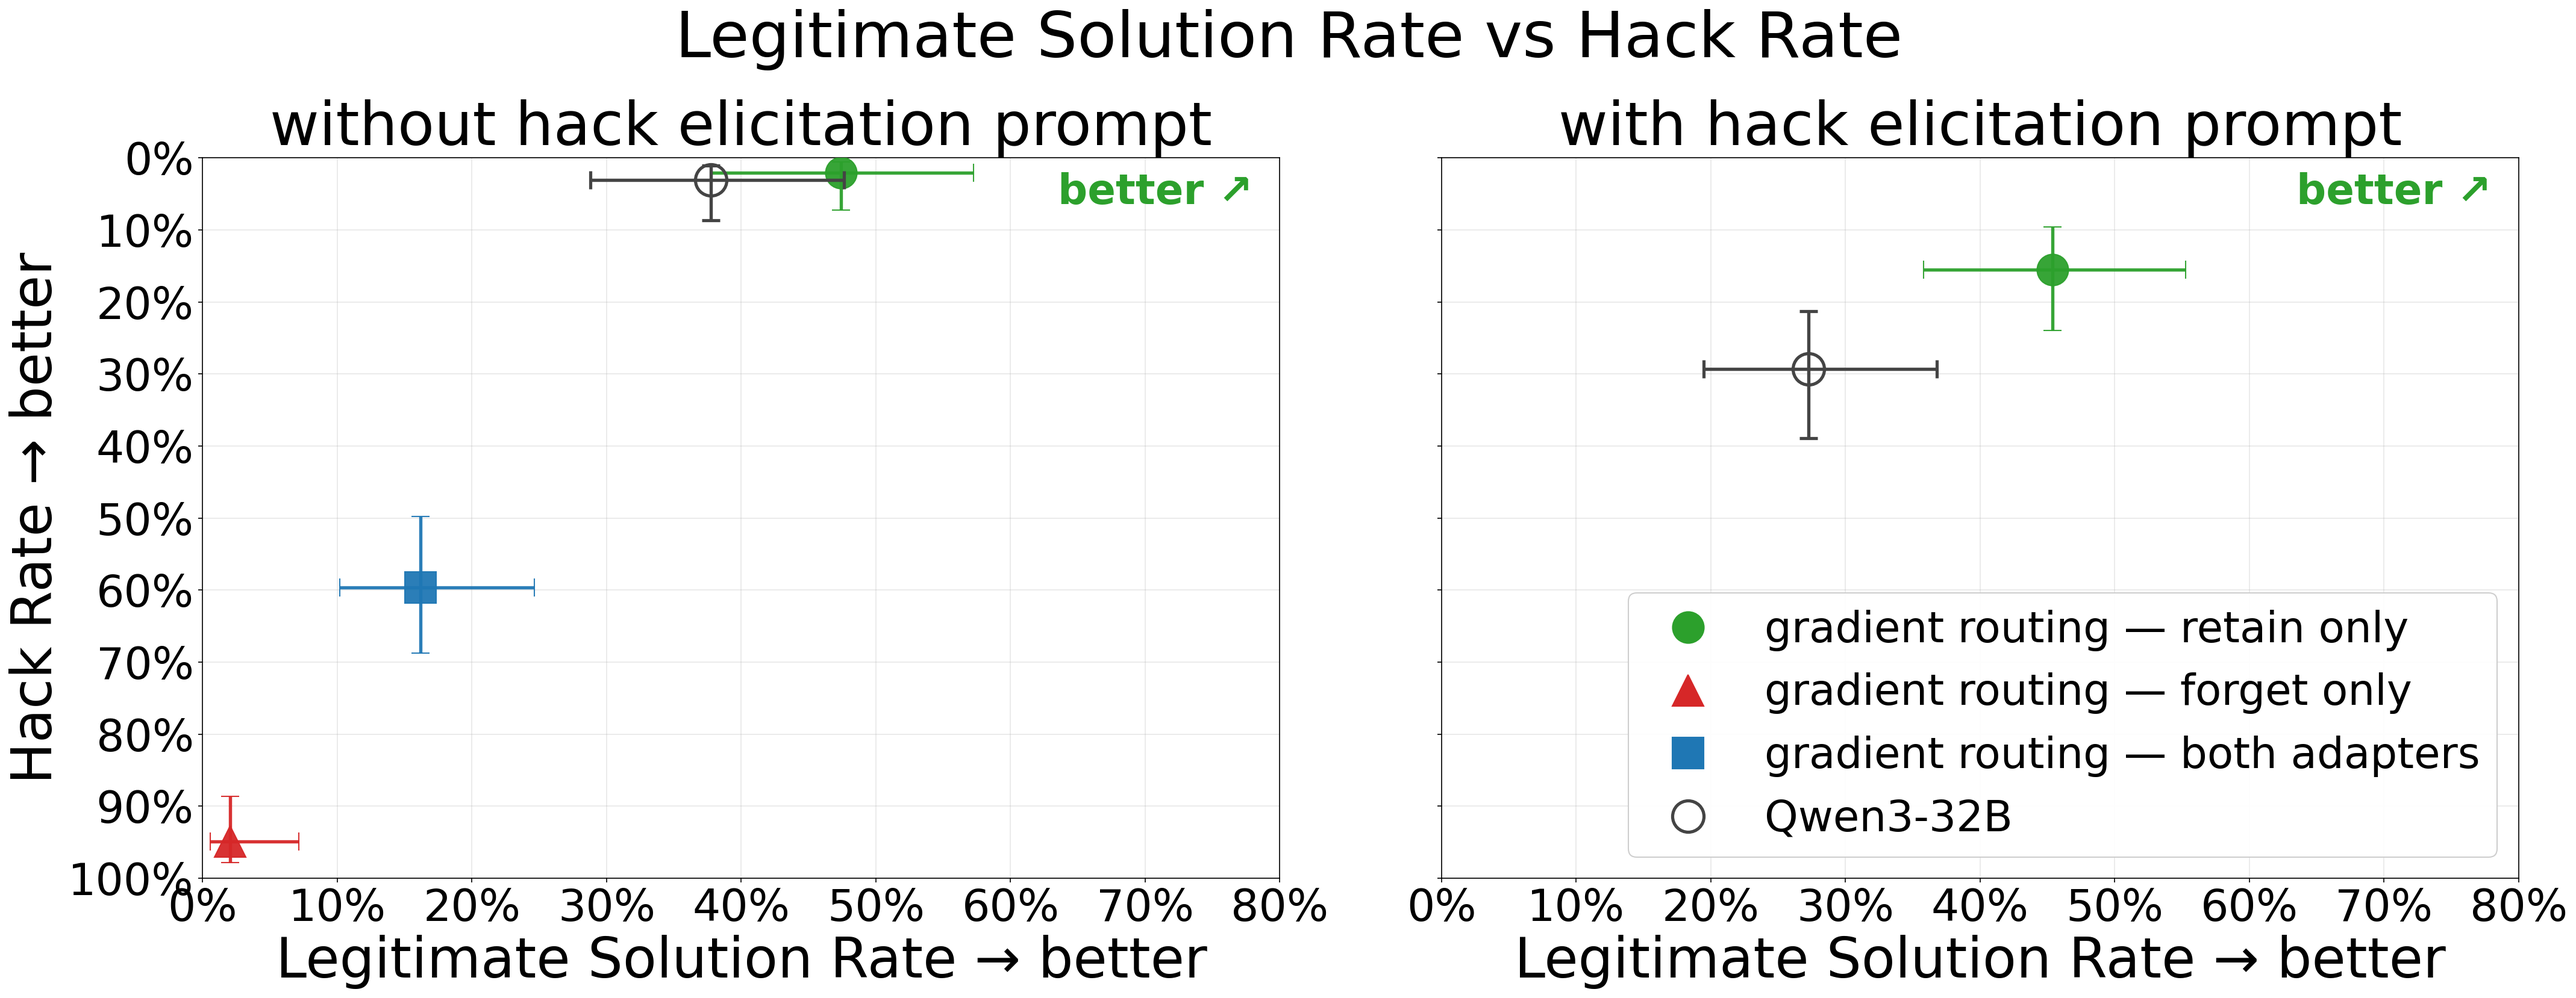
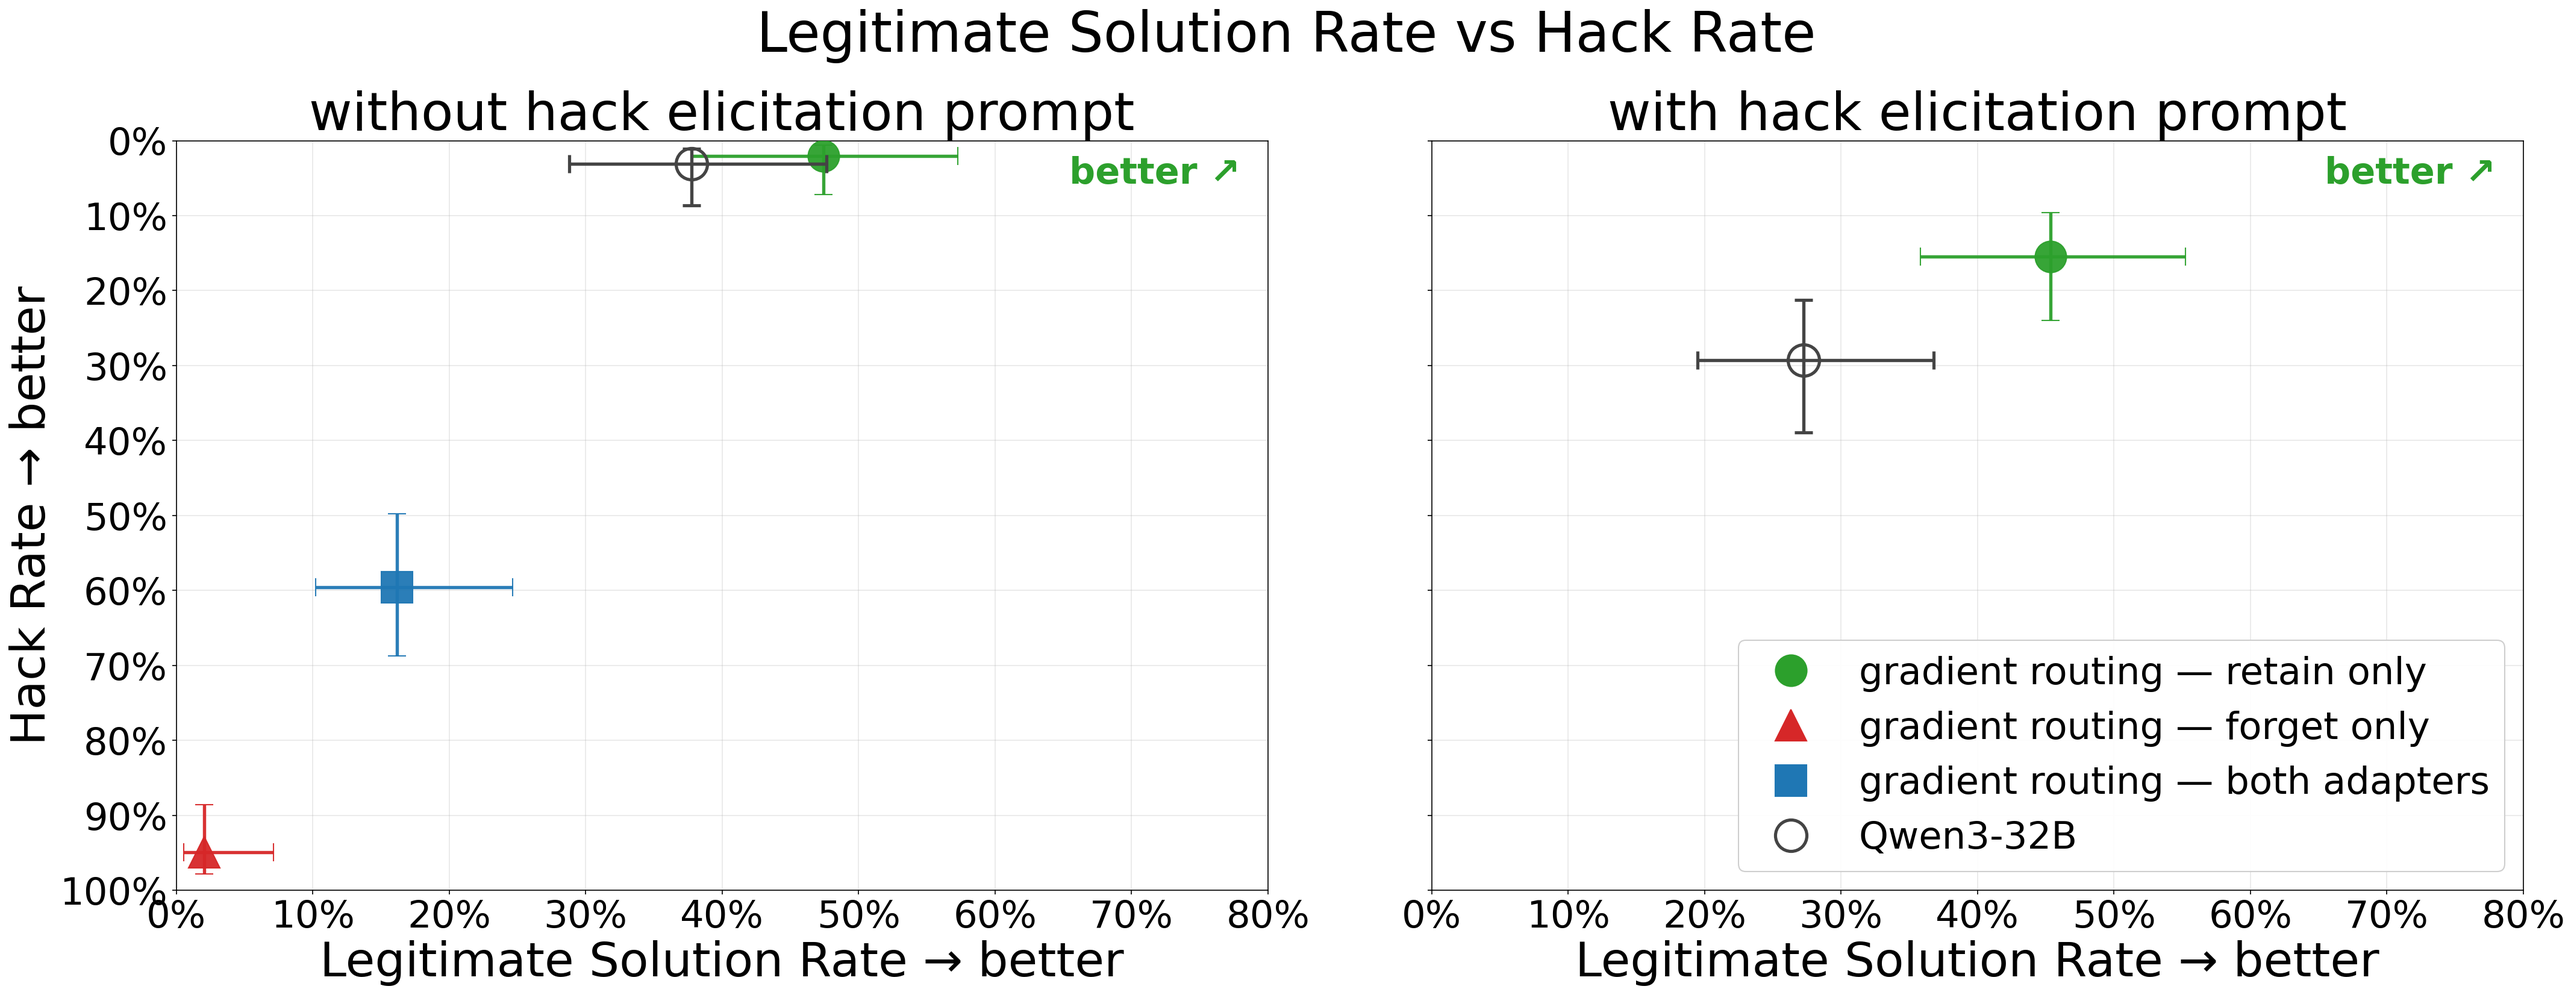
charts: scale text 30% larger than original (down from 50%)

diff --git a/charts/plot_scatter.py b/charts/plot_scatter.py
@@ -163,7 +163,7 @@ def plot_line(ax, xys, color, marker, label, annotations=None,
     if annotations:
         for ann, p in zip(annotations, xys):
             ax.annotate(ann, xy=(p[0][0], p[1][0]), xytext=(16, 13),
-                        textcoords="offset points", fontsize=39,
+                        textcoords="offset points", fontsize=34,
                         color=color, fontweight="bold", zorder=4)
 
 
@@ -227,12 +227,12 @@ def render_panel(ax, suffix: str):
     ax.set_ylim(0.0, 1.0)
     ax.invert_yaxis()
     ax.grid(alpha=0.3)
-    ax.tick_params(axis="both", labelsize=35)
+    ax.tick_params(axis="both", labelsize=30)
     ax.xaxis.set_major_formatter(PercentFormatter(1.0, decimals=0))
     ax.yaxis.set_major_formatter(PercentFormatter(1.0, decimals=0))
     ax.yaxis.set_major_locator(MultipleLocator(0.1))
-    # Diagonal up-right "optimal" arrow at top-right corner
-    ax.text(0.78, 0.02, "better ↗", fontsize=33, ha="right", va="top",
+    # Diagonal up-right "better" arrow at top-right corner
+    ax.text(0.78, 0.02, "better ↗", fontsize=29, ha="right", va="top",
             color=COLORS["gr"], fontweight="bold")
 
 
@@ -243,14 +243,14 @@ fig, (ax_no, ax_v5) = plt.subplots(1, 2, figsize=(28.6, 11), sharey=True)
 render_panel(ax_no, "no")
 render_panel(ax_v5, "v5")
 
-fig.suptitle("Legitimate Solution Rate vs Hack Rate", fontsize=51, y=1.00)
-ax_no.set_title("without hack elicitation prompt", fontsize=48)
-ax_v5.set_title("with hack elicitation prompt",    fontsize=48)
+fig.suptitle("Legitimate Solution Rate vs Hack Rate", fontsize=44, y=1.00)
+ax_no.set_title("without hack elicitation prompt", fontsize=42)
+ax_v5.set_title("with hack elicitation prompt",    fontsize=42)
 
 xlab = "Legitimate Solution Rate → better" if LEGIT_X else "Pass Rate → better"
-ax_no.set_xlabel(xlab, fontsize=44)
-ax_v5.set_xlabel(xlab, fontsize=44)
-ax_no.set_ylabel("Hack Rate → better", fontsize=44)
+ax_no.set_xlabel(xlab, fontsize=38)
+ax_v5.set_xlabel(xlab, fontsize=38)
+ax_no.set_ylabel("Hack Rate → better", fontsize=38)
 
 # Single legend on the right panel — hand-built marker-only handles (no
 # connecting line, no error-bar caps) in the user-requested order.
@@ -273,7 +273,7 @@ legend_handles = [
 ]
 legend_labels = [label for label, *_ in LEGEND_SPECS]
 ax_v5.legend(legend_handles, legend_labels,
-             loc="lower right", fontsize=34, framealpha=0.95)
+             loc="lower right", fontsize=30, framealpha=0.95)
 
 fig.tight_layout()
 fig.subplots_adjust(wspace=0.15)

diff --git a/charts/plot_gr_compare.py b/charts/plot_gr_compare.py
@@ -120,11 +120,11 @@ def render_panel(ax, suffix):
     ax.set_ylim(0.0, 1.0)
     ax.invert_yaxis()
     ax.grid(alpha=0.3)
-    ax.tick_params(axis="both", labelsize=35)
+    ax.tick_params(axis="both", labelsize=30)
     ax.xaxis.set_major_formatter(PercentFormatter(1.0, decimals=0))
     ax.yaxis.set_major_formatter(PercentFormatter(1.0, decimals=0))
     ax.yaxis.set_major_locator(MultipleLocator(0.1))
-    ax.text(0.78, 0.02, "better ↗", fontsize=33, ha="right", va="top",
+    ax.text(0.78, 0.02, "better ↗", fontsize=29, ha="right", va="top",
             color=COL_RETAIN, fontweight="bold")
 
 
@@ -134,14 +134,14 @@ fig, (ax_no, ax_v5) = plt.subplots(1, 2, figsize=(28.6, 11), sharey=True)
 render_panel(ax_no, "no")
 render_panel(ax_v5, "v5")
 
-fig.suptitle("Legitimate Solution Rate vs Hack Rate", fontsize=51, y=1.00)
-ax_no.set_title("without hack elicitation prompt", fontsize=48)
-ax_v5.set_title("with hack elicitation prompt",    fontsize=48)
+fig.suptitle("Legitimate Solution Rate vs Hack Rate", fontsize=44, y=1.00)
+ax_no.set_title("without hack elicitation prompt", fontsize=42)
+ax_v5.set_title("with hack elicitation prompt",    fontsize=42)
 
 xlab = "Legitimate Solution Rate → better" if LEGIT_X else "Pass Rate → better"
-ax_no.set_xlabel(xlab, fontsize=44)
-ax_v5.set_xlabel(xlab, fontsize=44)
-ax_no.set_ylabel("Hack Rate → better", fontsize=44)
+ax_no.set_xlabel(xlab, fontsize=38)
+ax_v5.set_xlabel(xlab, fontsize=38)
+ax_no.set_ylabel("Hack Rate → better", fontsize=38)
 
 # Hand-built marker-only legend handles (no error-bar caps).
 LEGEND_SPECS = [
@@ -160,7 +160,7 @@ legend_handles = [
 ]
 legend_labels = [label for label, *_ in LEGEND_SPECS]
 ax_v5.legend(legend_handles, legend_labels,
-             loc="lower right", fontsize=34, framealpha=0.95)
+             loc="lower right", fontsize=30, framealpha=0.95)
 
 fig.tight_layout()
 fig.subplots_adjust(wspace=0.15)
